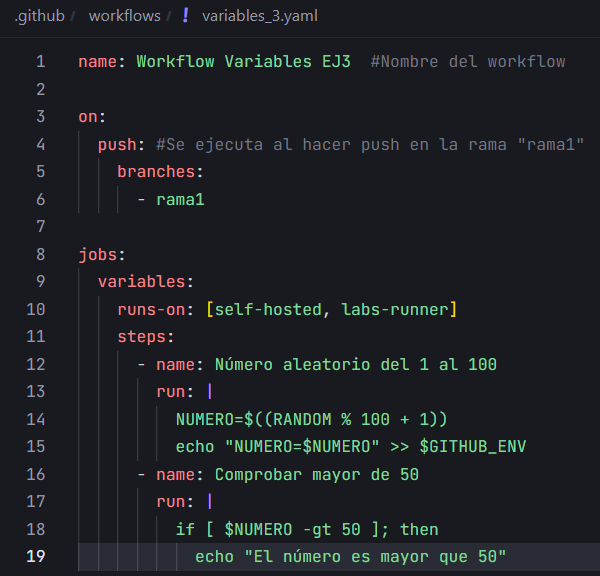
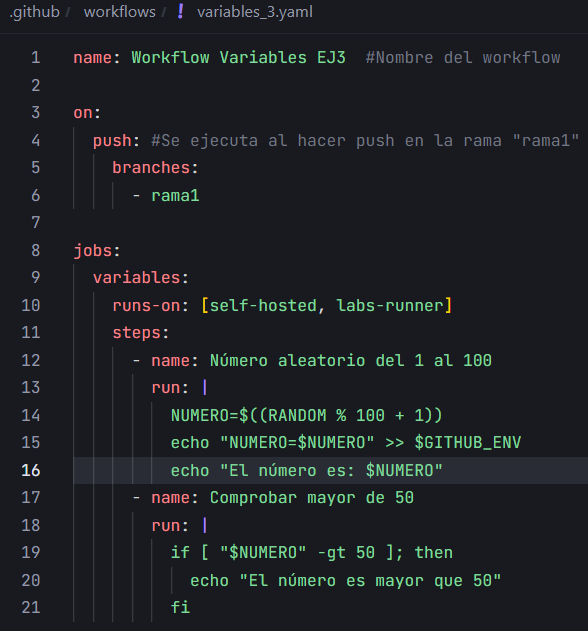
variables ej3 completado

diff --git a/soluciones/variables/ejercicio3.md b/soluciones/variables/ejercicio3.md
@@ -2,6 +2,32 @@
 
 ## Configura un workflow siguiendo estos pasos:
 
+Workflow:
+
+![](../../datos/variables_ej3_foto1.png)
+
 - Define un step que genere un número aleatorio del 1 al 100.
 
+```yaml
+- name: Número aleatorio del 1 al 100
+    run: |
+        NUMERO=$((RANDOM % 100 + 1))
+        echo "NUMERO=$NUMERO" >> $GITHUB_ENV
+        echo "El número es: $NUMERO"
+```
+
 - En el segundo step, utiliza un condicional para ejecutar comandos solo si el número es mayor a 50.
+
+```yaml
+- name: Comprobar mayor de 50
+    run: |
+        if [ "$NUMERO" -gt 50 ]; then
+        echo "El número es mayor que 50"
+        fi
+```
+
+Resultado:
+
+![](../../datos/variables_ej3_foto2.png)
+
+![](../../datos/variables_ej3_foto3.png)
